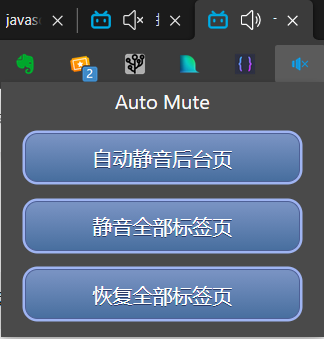
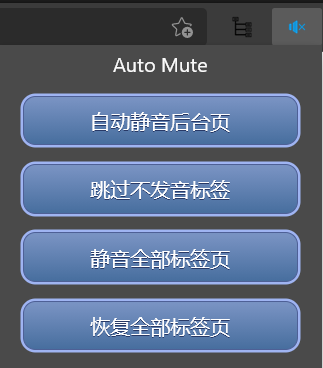
增加开关“跳过不发音标签”,更新Chrome API

diff --git a/scripts/background.js b/scripts/background.js
@@ -1,35 +1,67 @@
 var tabNow = -1;
 var sw_on = true;
 
-if(localStorage['sw_on']=="false")
+if (localStorage['sw_on'] == 'false')
     sw_on = false;
 sw(sw_on);
 
+var sw_audible = true;
+if (localStorage['audible'] == 'false')
+    sw_audible = false;
+sw2(sw_audible);
 
-chrome.tabs.onSelectionChanged.addListener(function (tabId, selectInfo) {
-    if(!sw_on)
+chrome.tabs.onActivated.addListener(function (activeInfo) {
+    console.log("onSelectionChanged: tabid-> " +  activeInfo.tabId + " sw_on="+sw_on);   
+    if (!sw_on)
         return;
-    console.log("onSelectionChanged: " + tabNow + "->" + tabId);
+
     try {
-        chrome.tabs.update(tabNow, { muted: true });
+        let tabId = activeInfo.tabId;
+        chrome.tabs.get(tabId, async (tab) => {
+
+            let muted = tab.active?false:true;
+            await chrome.tabs.update(tabId, { muted });
+
+            if(!sw_audible || tab.audible){
+                if(tabNow != tabId){
+                    await chrome.tabs.update(tabNow, { muted:true} );
+                    tabNow = tabId;
+                }
+            }
+            console.log(`Tab ${tab.id} is ${muted ? 'muted' : 'unmuted' }  audiable=${tab.audible}`);
+          });
+
     } catch (e) {
         console.log("Error-Mute-Tab-" + tabNow + "\n" + e);
     }
 
-    chrome.tabs.update(tabId, { muted: false });
-    tabNow = tabId;
 });
 
-function sw(sw){
+function sw(sw) {
     sw_on = sw;
-    localStorage['sw_on']=sw_on;
+    localStorage['sw_on'] = sw_on;
 
-    if(sw_on){
+    if (sw_on) {
         muteAll(true);
-        chrome.tabs.getSelected(function (tab) {
-            tabNow=tab.id;
+
+        chrome.tabs.query({ active: true, lastFocusedWindow: true }, function (tab) {
+            tabNow = tab.id;
             chrome.tabs.update(tab.id, { muted: false });
-        })
+        });
+    }
+}
+
+function sw2(sw) {
+    sw_audible = sw;
+    localStorage['audible'] = sw_audible;
+
+    if (sw_audible) {
+        muteAll(true);
+
+        chrome.tabs.query({ active: true, lastFocusedWindow: true }, function (tab) {
+            tabNow = tab.id;
+            chrome.tabs.update(tab.id, { muted: false });
+        });
     }
 }
 

diff --git a/scripts/popup.js b/scripts/popup.js
@@ -1,6 +1,11 @@
 var sw_on =true;
-if(localStorage['sw_on']=="false")
+if(localStorage['sw_on']=='false')
 sw_on=false ;
+
+var sw_audible = true;
+if(localStorage['audible']=='false')
+sw_audible=false;
+
 document.addEventListener('DOMContentLoaded', function () {
 
     var auto = document.getElementById('auto');
@@ -12,10 +17,19 @@ document.addEventListener('DOMContentLoaded', function () {
     var unmute = document.getElementById('unmute');
     unmute.textContent = chrome.i18n.getMessage("unMute");
 
+    var audible = document.getElementById('audible');
+    audible.textContent = chrome.i18n.getMessage("audible");
+
     if (sw_on){
         auto.setAttribute("sw", "on");
     }  else {
         auto.setAttribute("sw", "off");
+    }
+
+    if (sw_audible){
+        audible.setAttribute('sw',"on");
+    }else{
+        audible.setAttribute("sw","off");
     }
 
     auto.onclick = function () {
@@ -31,6 +45,21 @@ document.addEventListener('DOMContentLoaded', function () {
         }
         console.log('auto');
     }
+
+
+    audible.onclick = function(){
+        sw_audible = !sw_audible;
+
+        var bg=chrome.extension.getBackgroundPage();
+        bg.sw2(sw_audible);
+
+        if (sw_audible){
+            audible.setAttribute('sw',"on");
+        }else{
+            audible.setAttribute("sw","off");
+        }   
+    }
+
     mute.onclick = function () {
         console.log('mute');
         muteAll(true);

diff --git a/popup.html b/popup.html
@@ -11,6 +11,7 @@
 <body>
     <div id="popup-header">  Auto Mute   </div>
     <div  class="setting"  id="auto"></div>
+    <div  class="setting"  id="audible"></div>
     <div  class="setting"  id="mute"></div>  
     <div  class="setting"  id="unmute"></div>    
 <!-- 

diff --git a/ReadMe.md b/ReadMe.md
@@ -9,12 +9,16 @@
 
 已经上传Edge商店 https://microsoftedge.microsoft.com/addons/detail/ahnjeefliifcofmjceffghigncgoigmj
 
-![img](./screen.gif)
 
-UI非常简单,一共3个按钮:
+UI非常简单,一共4个按钮:
 1. 是否自动静音后台页面
-2. 一键静音当前打开的全部页面(只生效一次)
-3. 一键恢复当前打开的全部页面(只生效一次)  
+2. 是否跳过不发音的标签页
+3. 一键静音当前打开的全部页面(只生效一次)
+4. 一键恢复当前打开的全部页面(只生效一次)  
+
 ![img](./screen.png)
+
+
+![img](./screen.gif)
 
 图标来自[iconfont](https://www.iconfont.cn/), 按钮样式来自[CSS Button Generator](https://www.bestcssbuttongenerator.com/#/1)
